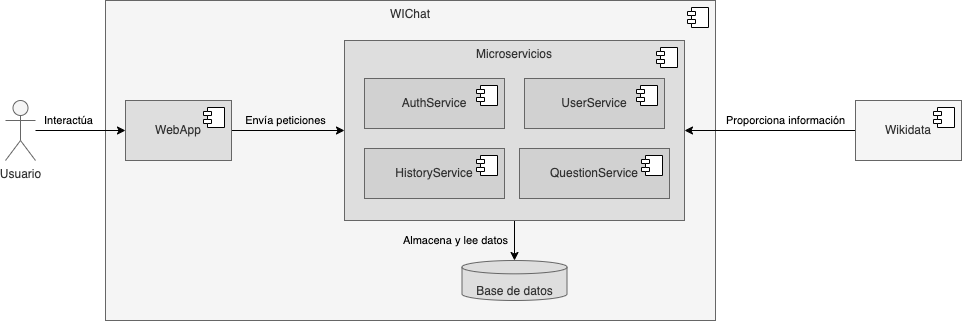
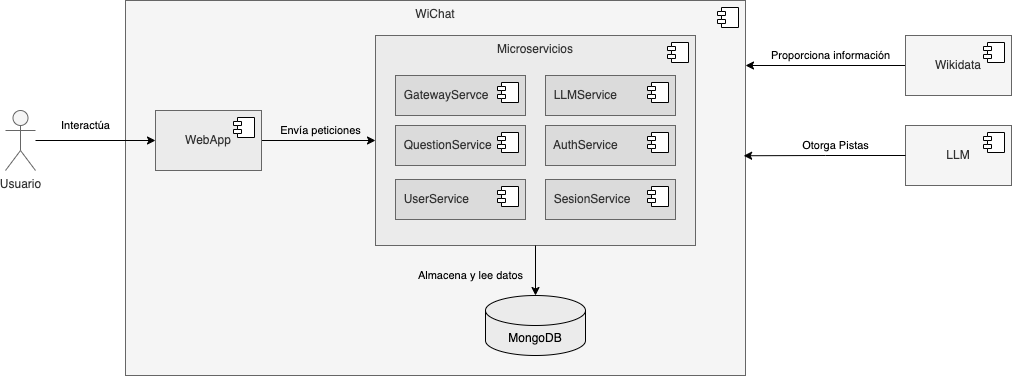
Updates

diff --git a/index.html b/index.html
@@ -989,6 +989,10 @@ o mayor medida la arquitectura o forma final que tendrá el proyecto.</p>
 <td class="tableblock halign-left valign-top"><p class="tableblock">Wikidata</p></td>
 <td class="tableblock halign-left valign-top"><p class="tableblock">API que genera la información de las preguntas y la proporciona al sistema.</p></td>
 </tr>
+<tr>
+<td class="tableblock halign-left valign-top"><p class="tableblock">LLM</p></td>
+<td class="tableblock halign-left valign-top"><p class="tableblock">Modelo de lenguaje entrenado para proporcionar pistas a los usuarios.</p></td>
+</tr>
 </tbody>
 </table>
 </div>
@@ -1037,12 +1041,16 @@ o mayor medida la arquitectura o forma final que tendrá el proyecto.</p>
 <td class="tableblock halign-left valign-top"><p class="tableblock">Servicios que se encargan de las funcionalidades del sistema.</p></td>
 </tr>
 <tr>
-<td class="tableblock halign-left valign-top"><p class="tableblock">Base de Datos</p></td>
+<td class="tableblock halign-left valign-top"><p class="tableblock">MongoDB</p></td>
 <td class="tableblock halign-left valign-top"><p class="tableblock">Base de datos que almacena la información sobre los usuarios y las preguntas.</p></td>
 </tr>
 <tr>
 <td class="tableblock halign-left valign-top"><p class="tableblock">Wikidata</p></td>
 <td class="tableblock halign-left valign-top"><p class="tableblock">API que genera la información de las preguntas y la proporciona al sistema.</p></td>
+</tr>
+<tr>
+<td class="tableblock halign-left valign-top"><p class="tableblock">LLM</p></td>
+<td class="tableblock halign-left valign-top"><p class="tableblock">Modelo de lenguaje entrenado para proporcionar pistas a los usuarios.</p></td>
 </tr>
 </tbody>
 </table>
@@ -1092,28 +1100,40 @@ o mayor medida la arquitectura o forma final que tendrá el proyecto.</p>
 <td class="tableblock halign-left valign-top"><p class="tableblock">Servicios que se encargan de las funcionalidades del sistema.</p></td>
 </tr>
 <tr>
-<td class="tableblock halign-left valign-top"><p class="tableblock">AuthService</p></td>
-<td class="tableblock halign-left valign-top"><p class="tableblock">Gestiona la autenticación de usuarios (inicio de sesión).</p></td>
+<td class="tableblock halign-left valign-top"><p class="tableblock">GatewayService</p></td>
+<td class="tableblock halign-left valign-top"><p class="tableblock">Actúa como una puerta de enlace que enruta solicitudes entre el resto de servicios.</p></td>
 </tr>
 <tr>
-<td class="tableblock halign-left valign-top"><p class="tableblock">UserService</p></td>
-<td class="tableblock halign-left valign-top"><p class="tableblock">Gestiona la creación de nuevos usuarios.</p></td>
-</tr>
-<tr>
-<td class="tableblock halign-left valign-top"><p class="tableblock">HistoryService</p></td>
-<td class="tableblock halign-left valign-top"><p class="tableblock">Gestiona el historial de los usuarios.</p></td>
+<td class="tableblock halign-left valign-top"><p class="tableblock">LLMService</p></td>
+<td class="tableblock halign-left valign-top"><p class="tableblock">Interactua con el modelo de lenguaje de la apliación.</p></td>
 </tr>
 <tr>
 <td class="tableblock halign-left valign-top"><p class="tableblock">QuestionService</p></td>
 <td class="tableblock halign-left valign-top"><p class="tableblock">Gestiona la creación de las preguntas.</p></td>
 </tr>
 <tr>
-<td class="tableblock halign-left valign-top"><p class="tableblock">Base de Datos</p></td>
+<td class="tableblock halign-left valign-top"><p class="tableblock">AuthService</p></td>
+<td class="tableblock halign-left valign-top"><p class="tableblock">Gestiona el inicio de sesión de los usuarios.</p></td>
+</tr>
+<tr>
+<td class="tableblock halign-left valign-top"><p class="tableblock">UserService</p></td>
+<td class="tableblock halign-left valign-top"><p class="tableblock">Maneja la creación de nuevos usuarios.</p></td>
+</tr>
+<tr>
+<td class="tableblock halign-left valign-top"><p class="tableblock">SesionService</p></td>
+<td class="tableblock halign-left valign-top"><p class="tableblock">Gestiona las sesiones de los usuarios.</p></td>
+</tr>
+<tr>
+<td class="tableblock halign-left valign-top"><p class="tableblock">MongoDB</p></td>
 <td class="tableblock halign-left valign-top"><p class="tableblock">Base de datos que almacena la información sobre los usuarios y las preguntas.</p></td>
 </tr>
 <tr>
 <td class="tableblock halign-left valign-top"><p class="tableblock">Wikidata</p></td>
 <td class="tableblock halign-left valign-top"><p class="tableblock">API que genera la información de las preguntas y la proporciona al sistema.</p></td>
+</tr>
+<tr>
+<td class="tableblock halign-left valign-top"><p class="tableblock">LLM</p></td>
+<td class="tableblock halign-left valign-top"><p class="tableblock">Modelo de lenguaje entrenado para proporcionar pistas a los usuarios.</p></td>
 </tr>
 </tbody>
 </table>
@@ -1549,7 +1569,7 @@ There you will find links and examples about ADR.</p>
 <div id="footer">
 <div id="footer-text">
 Version 8.3 ES<br>
-Last updated 2025-03-30 19:29:14 +0200
+Last updated 2025-03-31 14:20:46 +0200
 </div>
 </div>
 </body>
